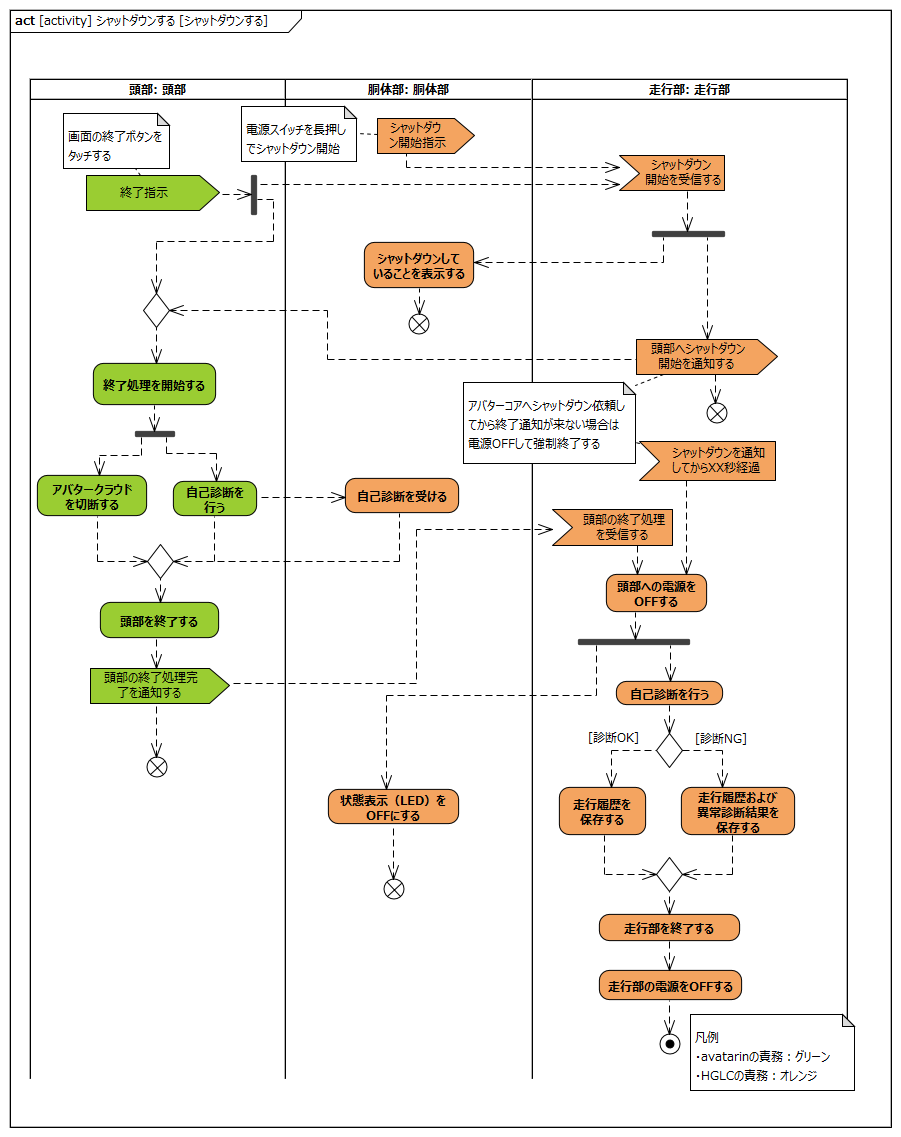
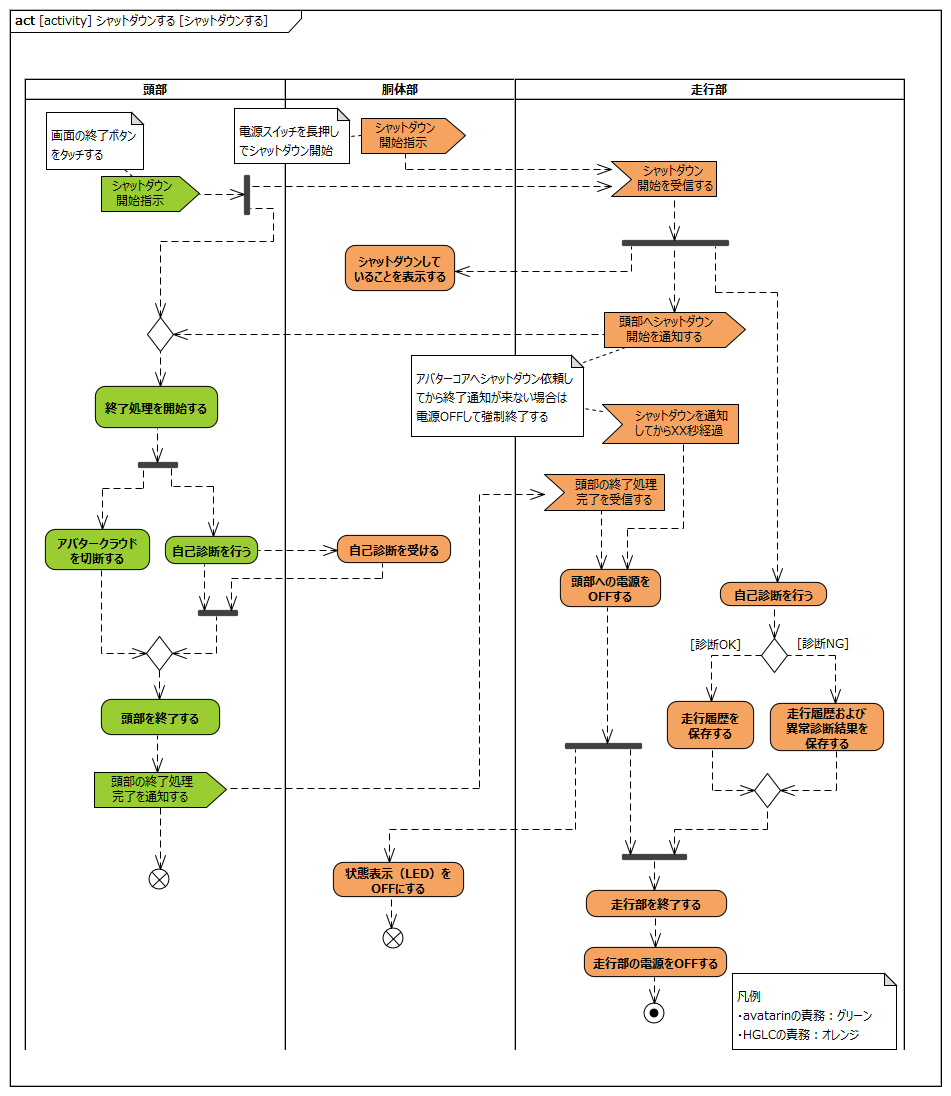
reupdate L1 model

diff --git a/requirements/shutdown.md b/requirements/shutdown.md
@@ -46,15 +46,81 @@ date: 2021年12月10日
 
 <div style="page-break-before:always"></div>
 
-## 頭部は一時停止状態をアバタークラウドに送信する
+## 頭部は頭部のシャットダウン操作を走行部に通知する
 
 avatarin側の責務のため、対象外とする。
 
 <div style="page-break-before:always"></div>
 
-## 走行部は一時停止信号を受信したら直ちに一時停止する
+## 頭部は頭部のシャットダウン操作または、走行部からのシャットダウン開始を受信し終了処理を開始する
 
-![](.images/activity/pause/act01.png)
+avatarin側の責務のため、対象外とする。
+
+<div style="page-break-before:always"></div>
+
+## 頭部はアバタークラウドを切断する
+
+avatarin側の責務のため、対象外とする。
+
+<div style="page-break-before:always"></div>
+
+## 頭部は自己診断を行う
+
+avatarin側の責務のため、対象外とする。
+
+<div style="page-break-before:always"></div>
+
+## 頭部は終了する
+
+avatarin側の責務のため、対象外とする。
+
+<div style="page-break-before:always"></div>
+
+## 頭部は走行部へ終了処理完了通知を送信する
+
+avatarin側の責務のため、対象外とする。
+
+<div style="page-break-before:always"></div>
+
+## 胴体部はシャットダウンしていることを表示する
+
+![](.images/activity/shutdown/body-act01.png)
+
+**L2要求抽出**
+
+|要求|備考|
+|:---|:---|
+|||
+
+<div style="page-break-before:always"></div>
+
+## 胴体部は頭部による自己診断を受ける
+
+![](.images/activity/shutdown/body-act02.png)
+
+**L2要求抽出**
+
+|要求|備考|
+|:---|:---|
+|||
+
+<div style="page-break-before:always"></div>
+
+## 胴体部は電源OFFにより状態表示をOFFにする
+
+![](.images/activity/shutdown/body-act03.png)
+
+**L2要求抽出**
+
+|要求|備考|
+|:---|:---|
+|||
+
+<div style="page-break-before:always"></div>
+
+## 走行部はシャットダウン開始を受信する
+
+![](.images/activity/shutdown/act01.png)
 
 
 **L2要求抽出**
@@ -63,4 +129,89 @@ avatarin側の責務のため、対象外とする。
 |:---|:---|
 |||
 
+<div style="page-break-before:always"></div>
 
+## 走行部は頭部へシャットダウン開始を通知する
+
+![](.images/activity/shutdown/act01.png)
+
+
+**L2要求抽出**
+
+|要求|備考|
+|:---|:---|
+|||
+
+<div style="page-break-before:always"></div>
+
+## 走行部は頭部への電源をOFFする
+
+![](.images/activity/shutdown/act01.png)
+
+
+**L2要求抽出**
+
+|要求|備考|
+|:---|:---|
+|||
+
+<div style="page-break-before:always"></div>
+
+## 走行部は自己診断を行う
+
+![](.images/activity/shutdown/act01.png)
+
+
+**L2要求抽出**
+
+|要求|備考|
+|:---|:---|
+|||
+
+<div style="page-break-before:always"></div>
+
+## 走行部は自己診断が正常に完了した場合、走行履歴を保存する
+
+![](.images/activity/shutdown/act01.png)
+
+
+**L2要求抽出**
+
+|要求|備考|
+|:---|:---|
+|||
+
+<div style="page-break-before:always"></div>
+
+## 走行部は自己診断で異常があった場合、走行履歴および診断結果を保存する
+
+![](.images/activity/shutdown/act01.png)
+
+
+**L2要求抽出**
+
+|要求|備考|
+|:---|:---|
+|||
+
+## 走行部は走行部を終了する
+
+![](.images/activity/shutdown/act01.png)
+
+
+**L2要求抽出**
+
+|要求|備考|
+|:---|:---|
+|||
+
+## 走行部は走行部の電源をOFFにする
+
+![](.images/activity/shutdown/act01.png)
+
+
+**L2要求抽出**
+
+|要求|備考|
+|:---|:---|
+|||

diff --git a/requirements/requirement.md b/requirements/requirement.md
@@ -1875,6 +1875,8 @@ YES動作コマンドは首垂直動作に依存し、NO動作コマンドは首
 - 事前条件
     - なし
 - 事後条件
+    - 走行履歴が保存されること
+      - 自己診断に異常があった場合は診断結果を保存する
     - 電源OFFとなること
 - 備考
     - ST-02より
@@ -1892,18 +1894,23 @@ YES動作コマンドは首垂直動作に依存し、NO動作コマンドは首
 
 |要求|備考|
 |:---|:---|
-|頭部は頭部側で終了操作が行われた場合、走行部にシャットダウン開始を通知する|ディスプレイ上の終了ボタンをタッチする想定|
-|頭部は頭部の終了操作または、走行部からのシャットダウン開始を受信し、終了処理を開始する||
+|頭部は頭部のシャットダウン操作を走行部に通知する|ディスプレイ上の終了ボタンをタッチする想定|
+|頭部は頭部のシャットダウン操作または、走行部からのシャットダウン開始を受信し終了処理を開始する||
 |頭部はアバタークラウドを切断する||
+|頭部は自己診断を行う||
 |頭部は終了する||
-|頭部は走行部へ終了完了通知を送信する||
+|頭部は走行部へ終了処理完了通知を送信する||
 |胴体部はシャットダウンしていることを表示する||
+|胴体部は頭部による自己診断を受ける||
 |胴体部は電源OFFにより状態表示をOFFにする||
 |走行部はシャットダウン開始を受信する||
 |走行部は頭部へシャットダウン開始を通知する||
 |走行部は頭部への電源をOFFする|シャットダウン開始通知後XX秒後、もしくは、頭部からシャットダウン完了通知受信時|
-|走行部は胴体部/走行部を終了する||
-|走行部は胴体部/走行部の電源をOFFする||
+|走行部は自己診断を行う||
+|走行部は自己診断が正常に完了した場合、走行履歴を保存する||
+|走行部は自己診断で異常があった場合、走行履歴および診断結果を保存する||
+|走行部は走行部を終了する||
+|走行部は走行部の電源をOFFにする||
 
 <div style="page-break-before:always"></div>
 
